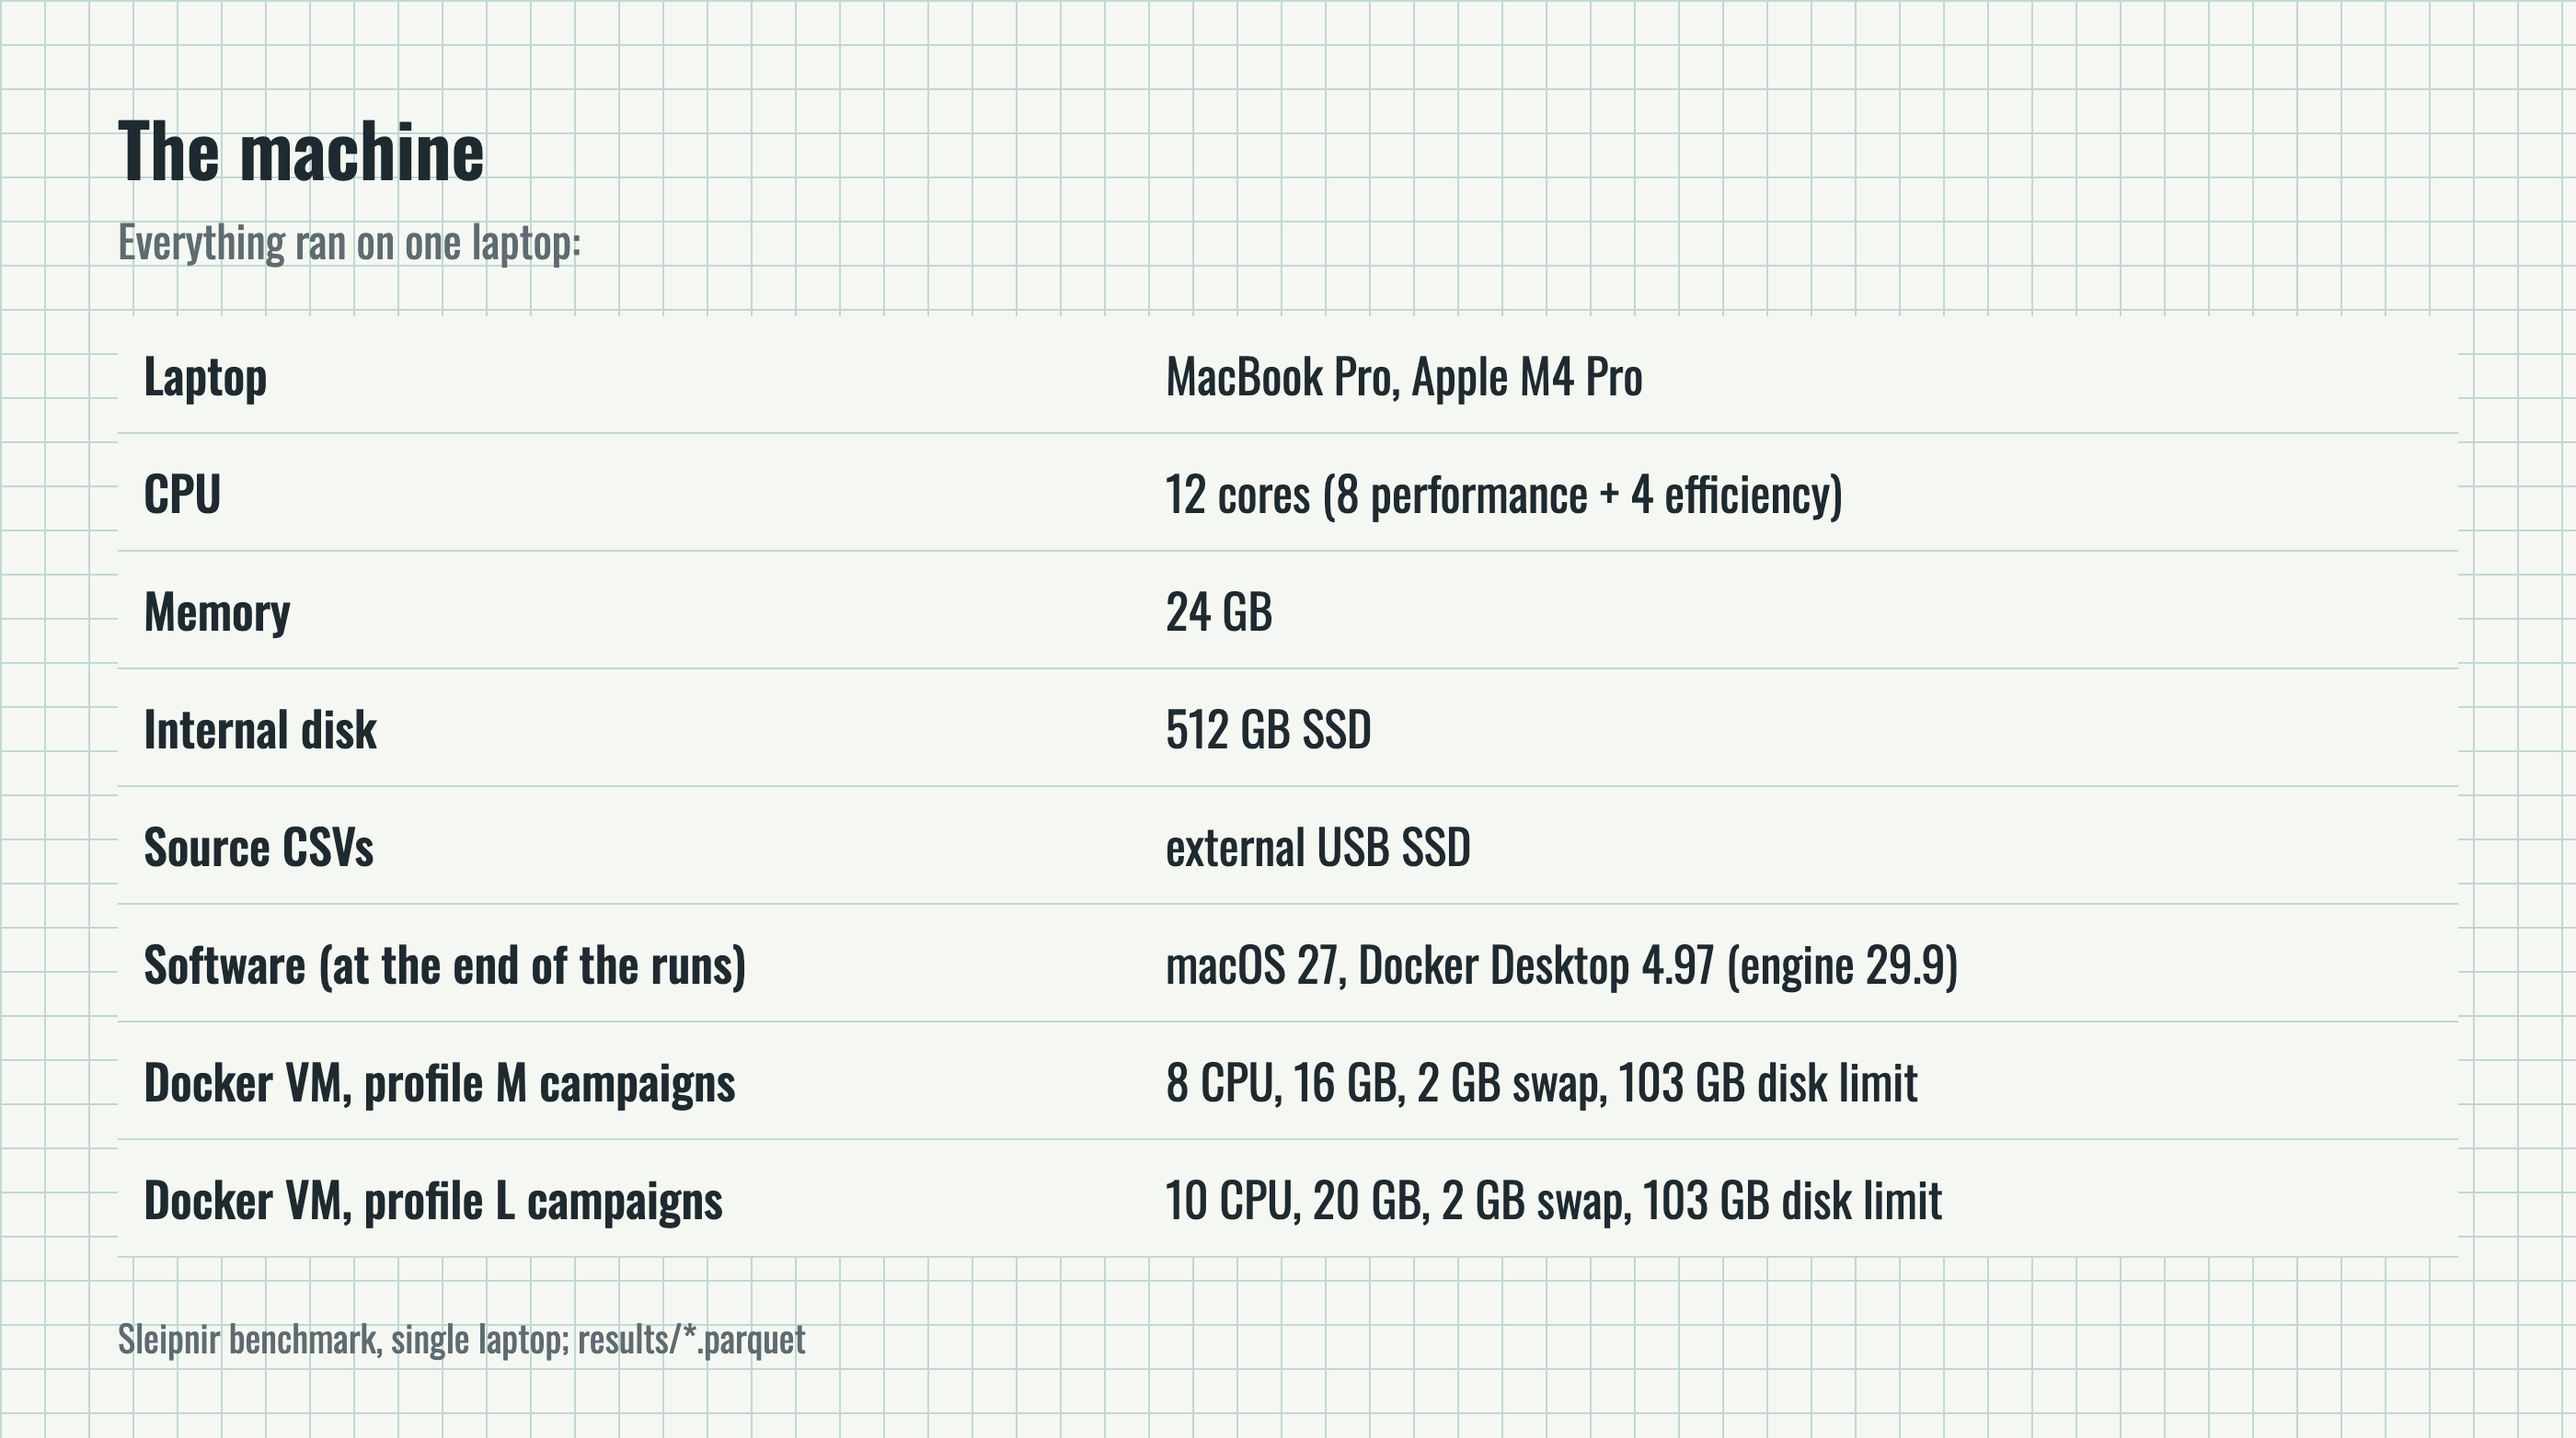
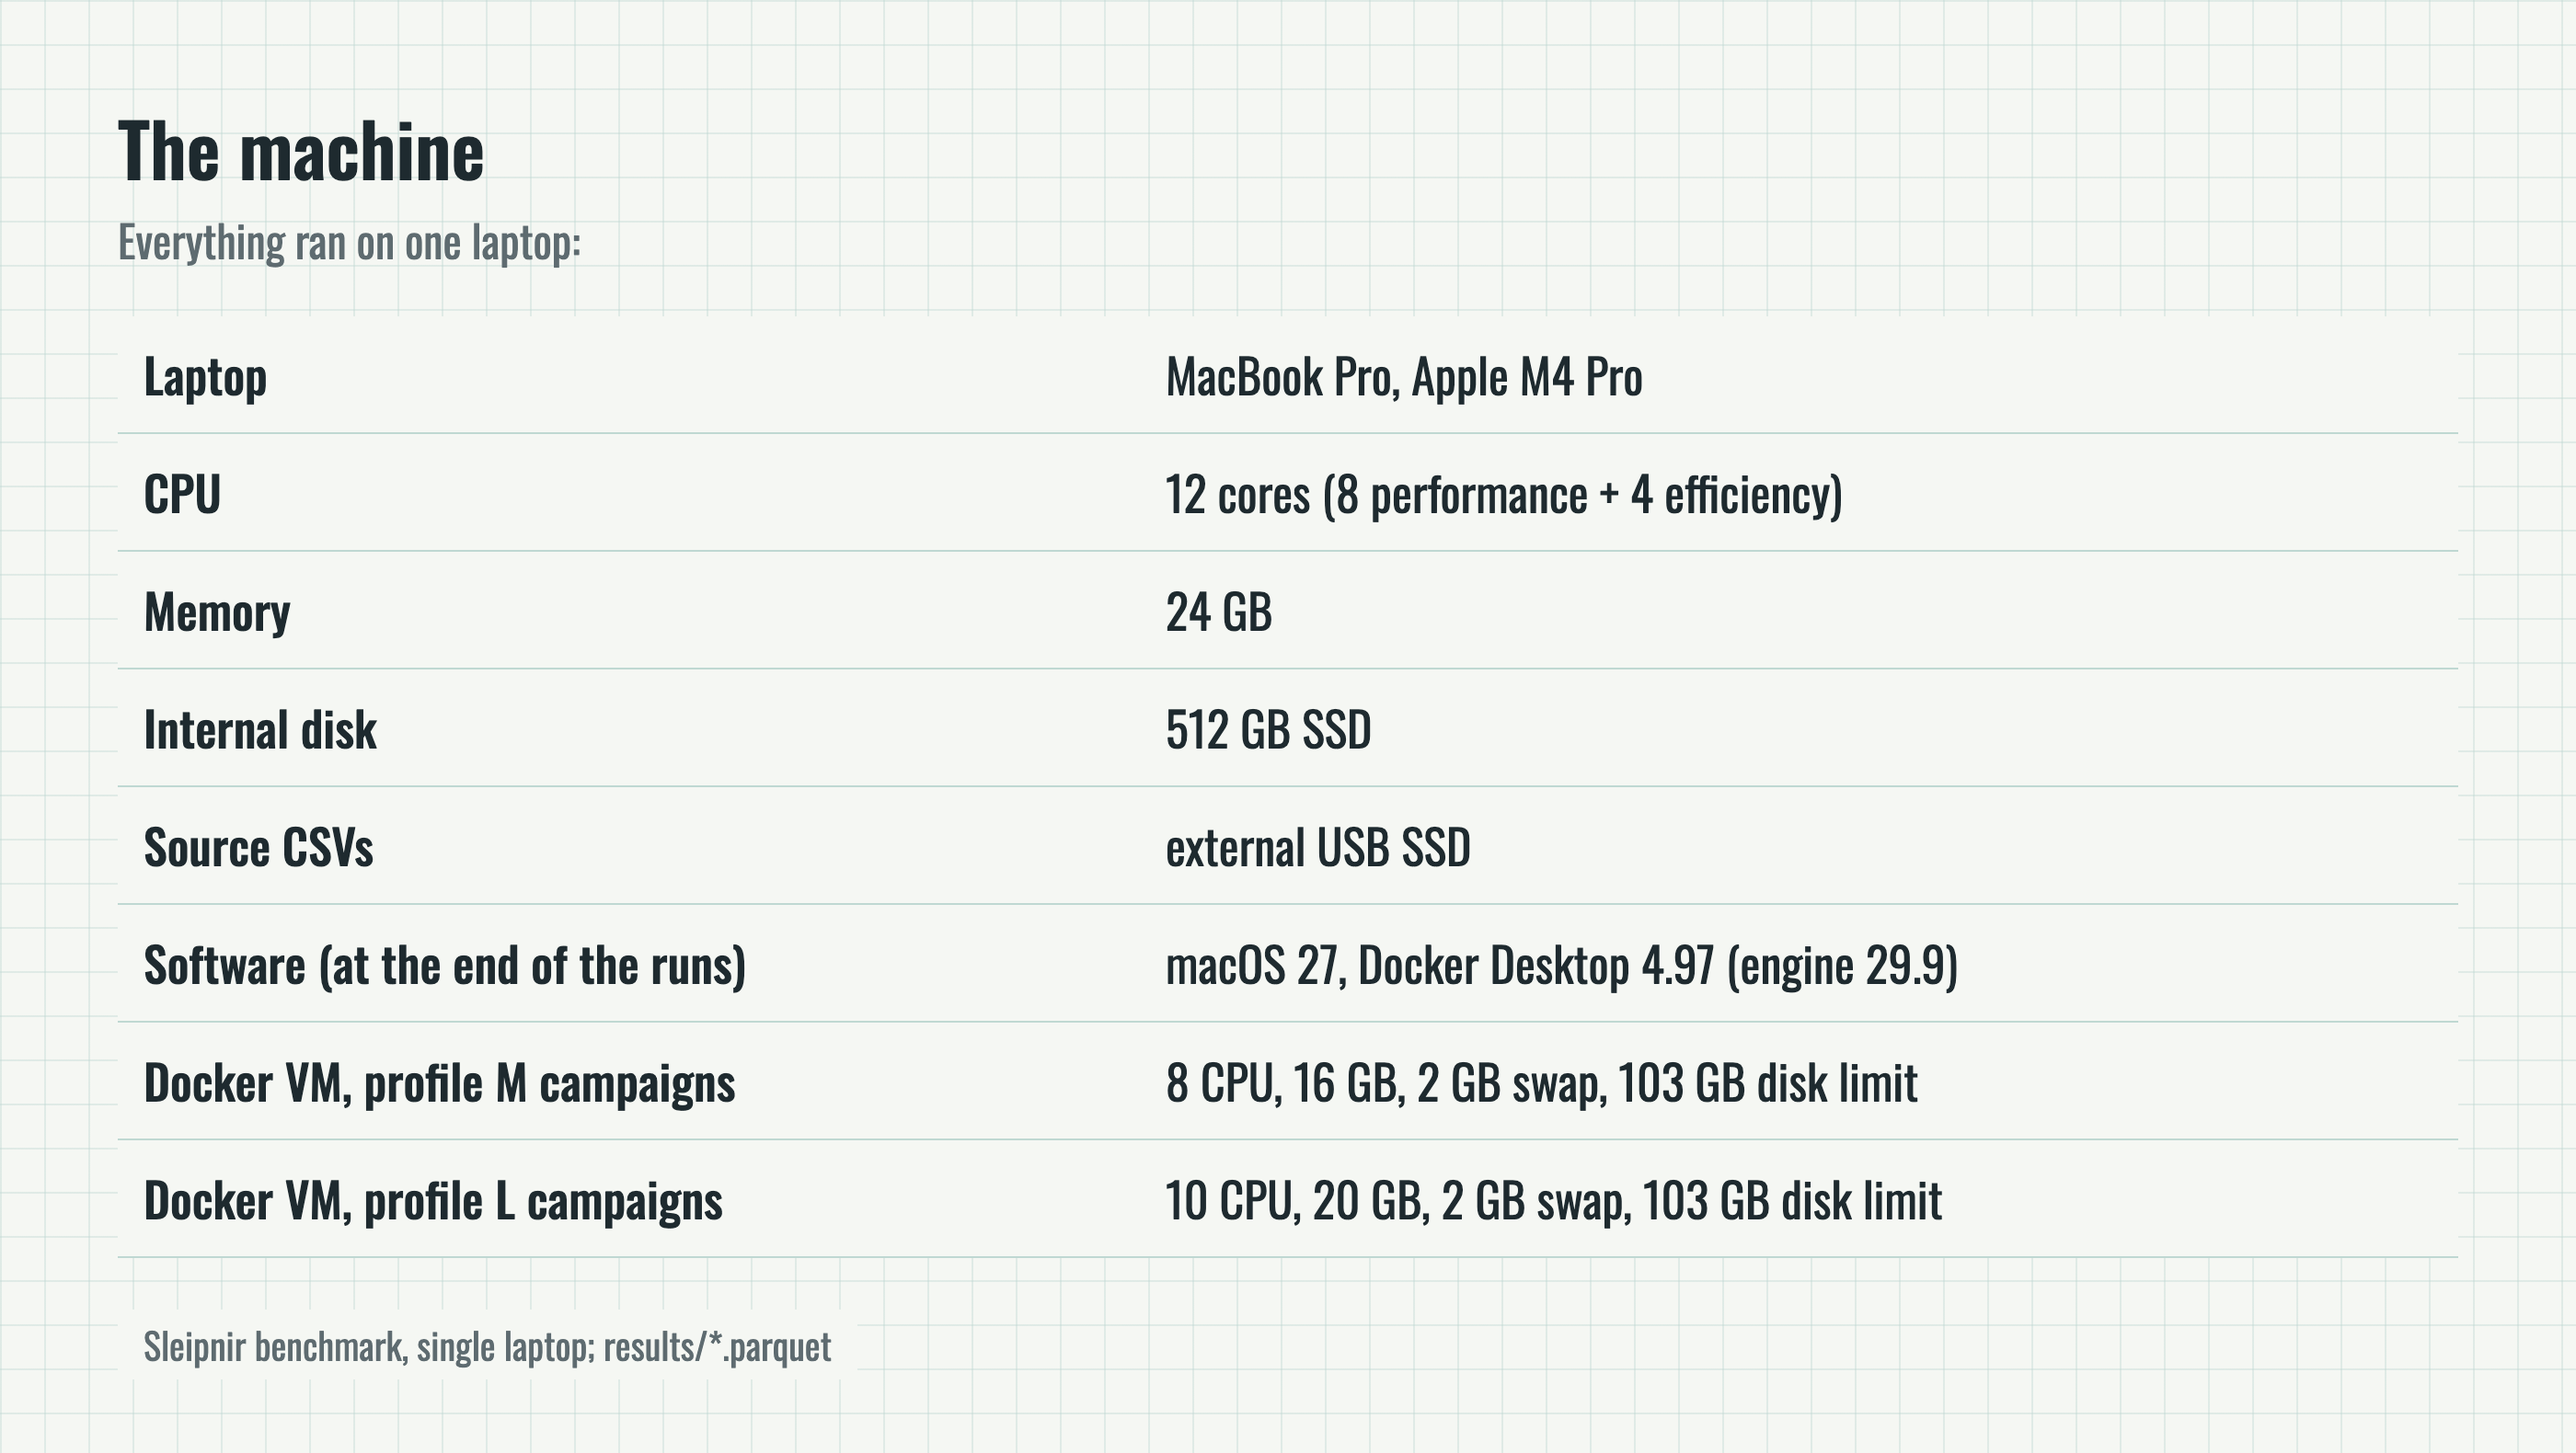
media: lighter paper grid in the Medium table images
Draw the grid at 40% opacity and give the footnotes and the source line
a solid paper background so no grid line crosses text. Images re-rendered.

diff --git a/media/medium-tables/render_tables.py b/media/medium-tables/render_tables.py
@@ -28,14 +28,14 @@ SOURCE_LINE = "Sleipnir benchmark, single laptop; results/*.parquet"
 PAGE_STYLE = """
 <link href="https://fonts.googleapis.com/css2?family=League+Gothic&family=Oswald:wght@400;500;600&display=block" rel="stylesheet">
 <style>
-  :root { --paper: #F5F7F3; --grid: #BFD8D2; --ink: #1E2A2F; --red: #D9382B; --muted: #5E6B70; }
+  :root { --paper: #F5F7F3; --grid: #BFD8D2; --grid-faint: rgba(191, 216, 210, 0.4); --ink: #1E2A2F; --red: #D9382B; --muted: #5E6B70; }
   html, body { margin: 0; background: var(--paper); }
   .sheet {
     width: %(width)dpx; box-sizing: border-box; padding: 56px 64px 40px;
     background-color: var(--paper);
     background-image:
-      linear-gradient(var(--grid) 1px, transparent 1px),
-      linear-gradient(90deg, var(--grid) 1px, transparent 1px);
+      linear-gradient(var(--grid-faint) 1px, transparent 1px),
+      linear-gradient(90deg, var(--grid-faint) 1px, transparent 1px);
     background-size: 24px 24px;
     font-family: 'Oswald', sans-serif; color: var(--ink);
   }
@@ -48,9 +48,9 @@ PAGE_STYLE = """
   td:first-child { font-weight: 500; }
   strong { color: var(--red); font-weight: 600; }
   code { font-family: 'Oswald', sans-serif; font-weight: 500; }
-  .notes { margin: 20px 0 0; font-size: 21px; color: var(--muted); line-height: 1.45; }
+  .notes { margin: 20px 0 0; padding: 10px 14px 4px; background: var(--paper); font-size: 21px; color: var(--muted); line-height: 1.45; }
   .notes p { margin: 0 0 6px; }
-  .source { margin-top: 28px; font-size: 20px; color: var(--muted); }
+  .source { display: inline-block; margin-top: 28px; padding: 4px 14px; background: var(--paper); font-size: 20px; color: var(--muted); }
 </style>
 """
 
